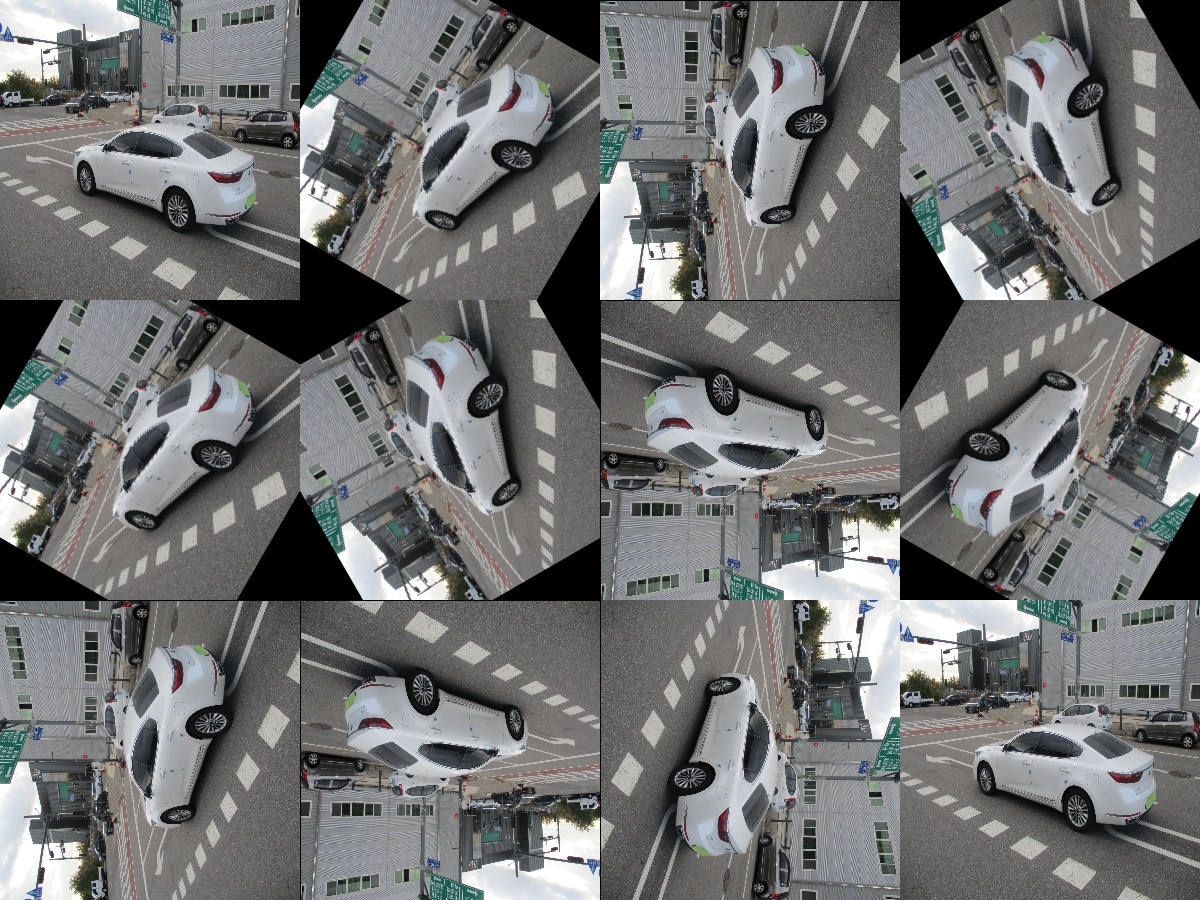
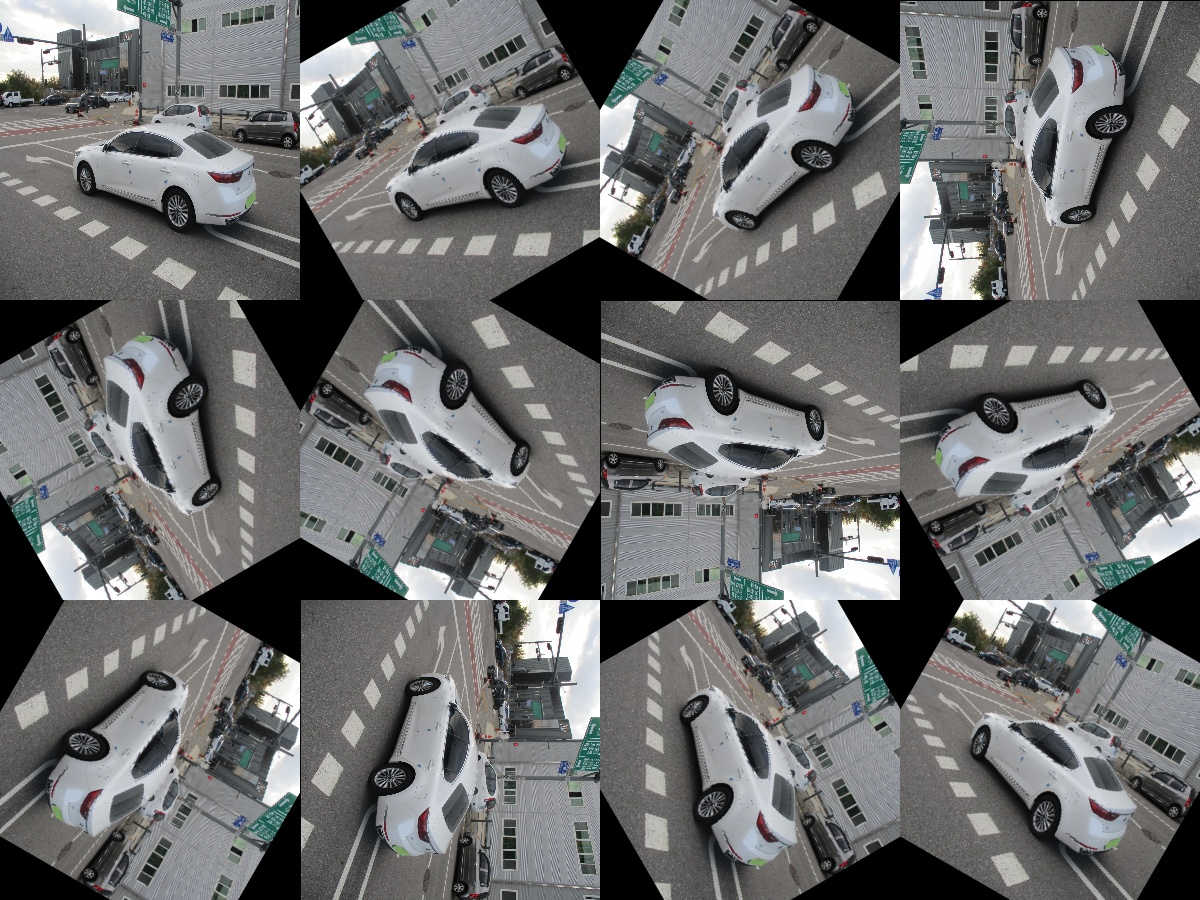
2021_07_21_error_edit

diff --git a/rotation.py b/rotation.py
@@ -7,35 +7,34 @@ image = cv2.imread('./test2.jpg', cv2.IMREAD_COLOR)
 image = cv2.resize(image,(300,300))
 h, w = image.shape[:2]
 name_space = ['origin', 'flip']
-for x in range(2):
 
+for x in range(2):
     temp_image = np.zeros((300,300))
+    index = 1
     if x == 1:
         image = cv2.flip(image, 1)
-    for i in range(4):
-        for j in range(3):
+    for i in range(3):
+        for j in range(4):
             if i== 0 and j == 0 :
                 three_images = image
+                print(i,j)
                 continue
             
-            M = cv2.getRotationMatrix2D((w/2,h/2), ((i+1)*(j+1))*30, 1)
-
+            M = cv2.getRotationMatrix2D((w/2,h/2), index*30, 1)
+            index +=1
             trans_image = cv2.warpAffine(image, M, (w,h))
             if j != 0 :
                 three_images = np.concatenate((three_images, trans_image), axis=1)
             else :
                 three_images = trans_image
                 
-            print(i,j,three_images.shape)
 
         print('three_images shape : \t', three_images.shape, temp_image.shape)
         if i == 0:
             temp_image = three_images
         else :
             temp_image = np.concatenate((temp_image,three_images), axis=0)
-        print(temp_image.shape, three_images.shape)
 
-    print(temp_image.shape)
 
     cv2.imshow("sdf", temp_image)
 

diff --git a/channel_tran.py b/channel_tran.py
@@ -1,0 +1,18 @@
+import cv2
+import os
+import numpy as np
+
+# image = cv2.imread('./test2.jpg', cv2.IMREAD_COLOR)
+
+# image = cv2.resize(image,(300,300))
+# h, w = image.shape[:2]
+# channel_type = [cv2.COLOR_RGB2BGR, 'flip']
+
+# for x in range(len(channel_type)):
+
+#     pass
+
+
+flags = [i for i in dir(cv2) if i.startswith('COLOR_')]
+for i in flags:
+    print(i)
